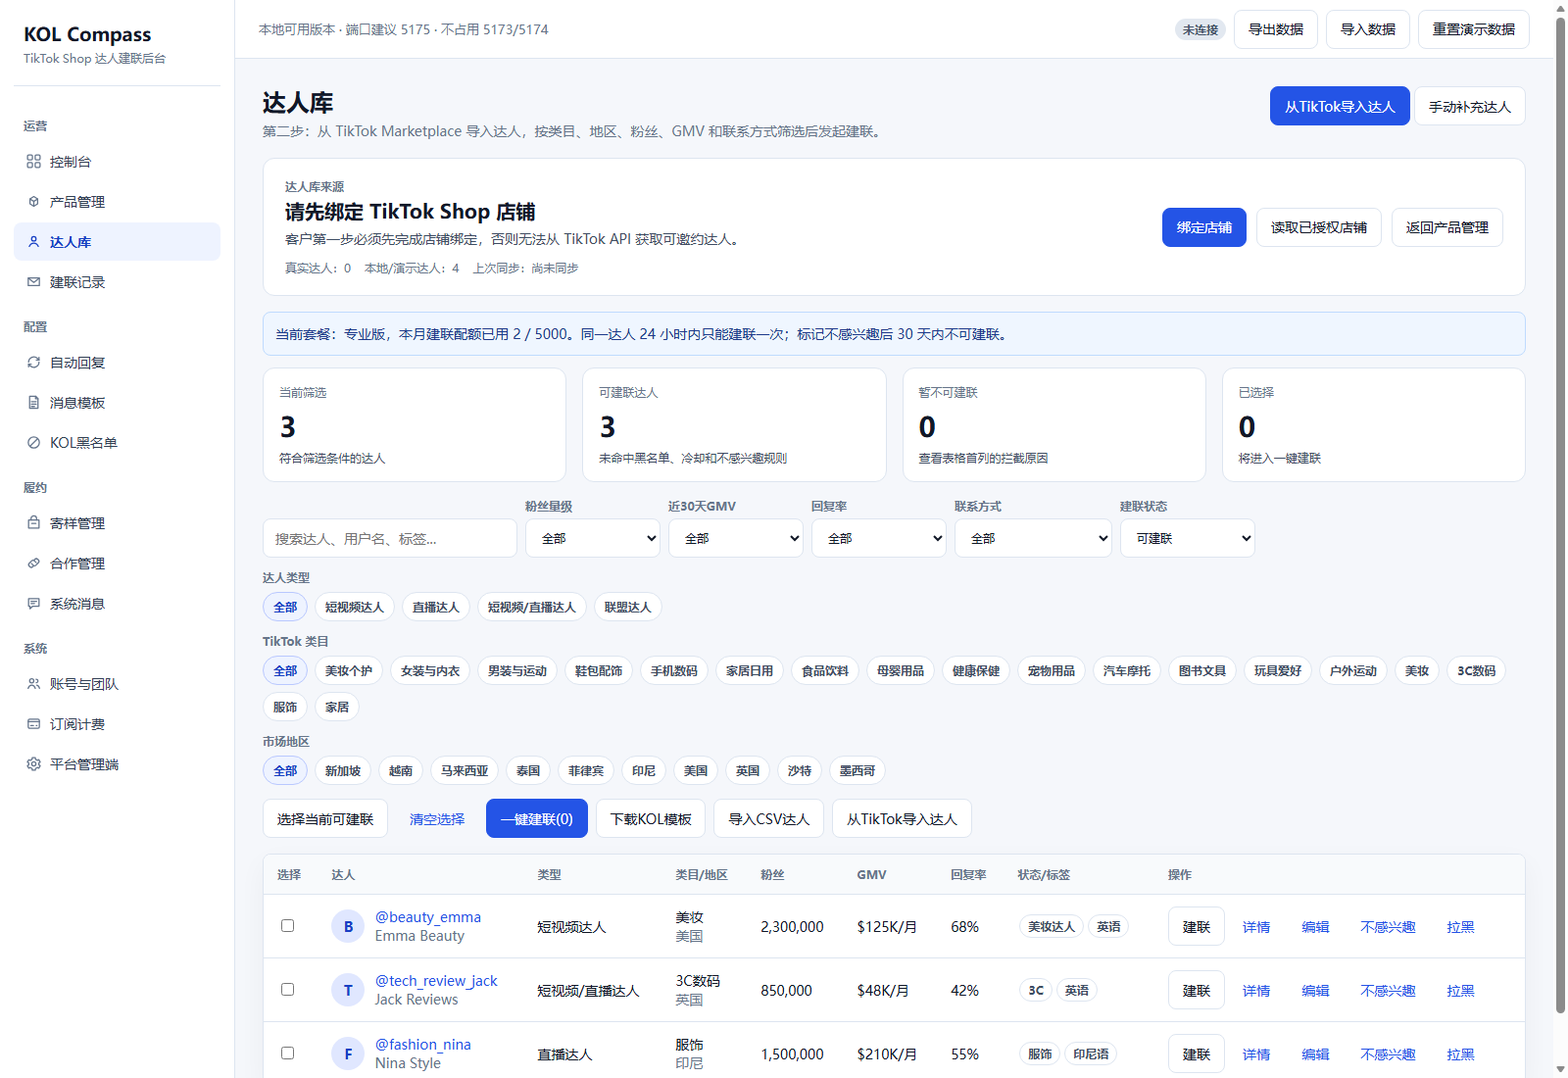
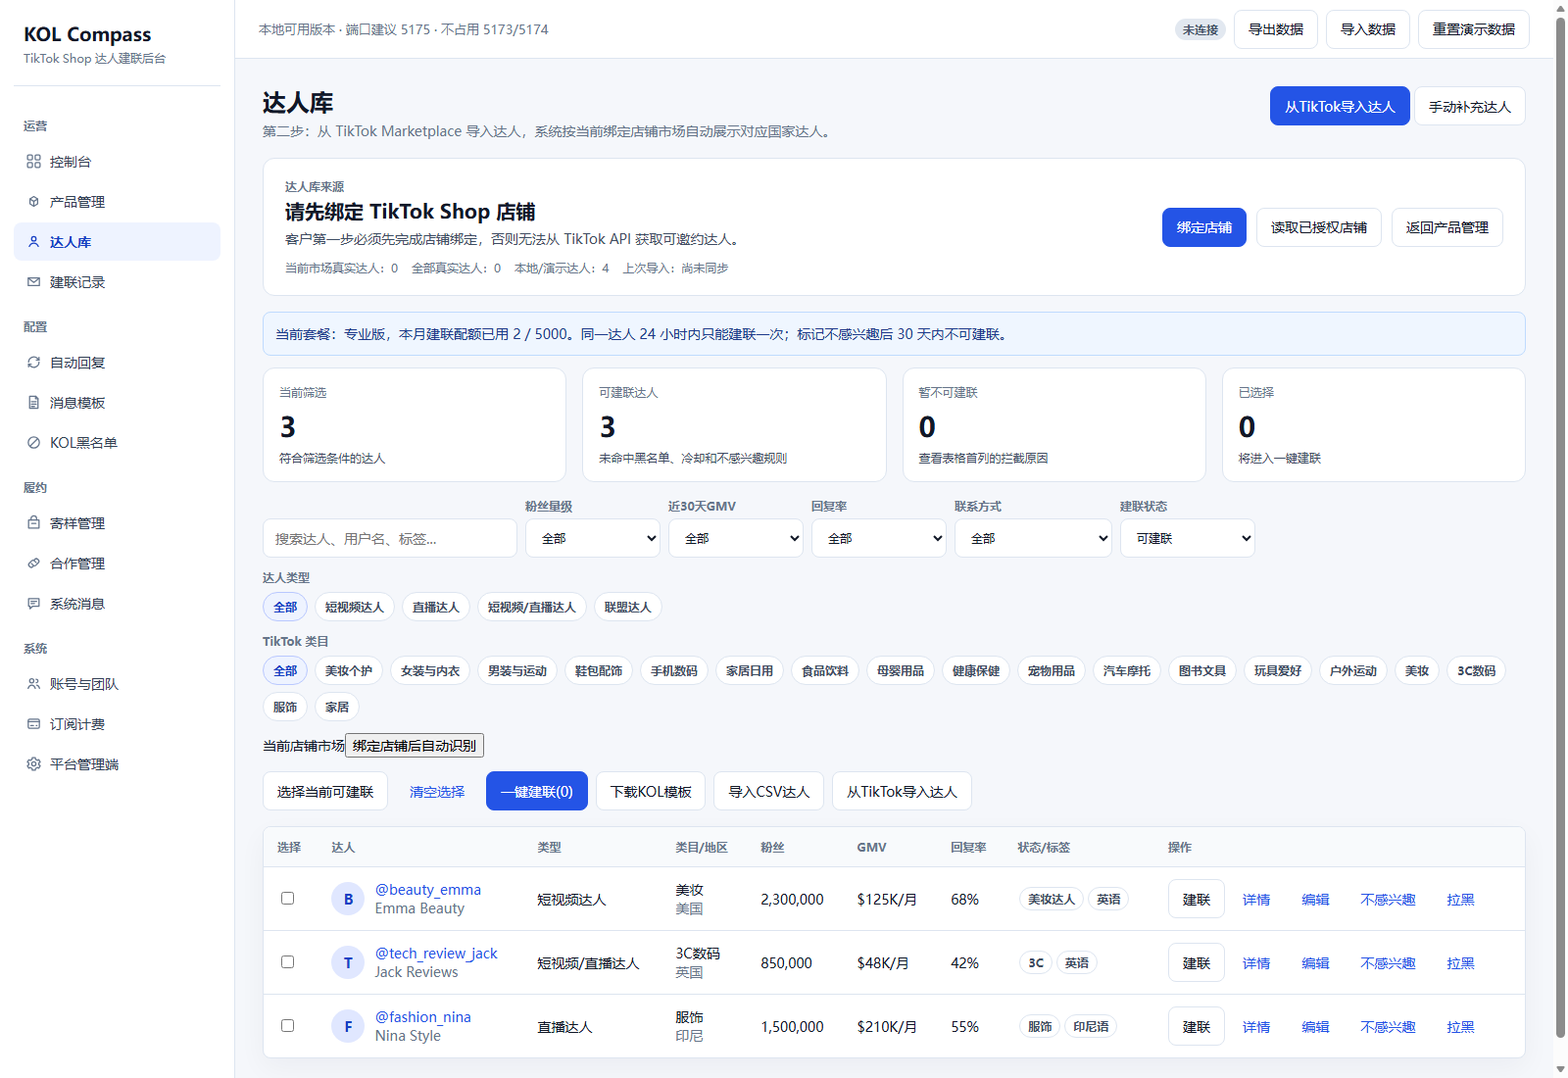
Import creators across authorized shop markets

diff --git a/app.js b/app.js
@@ -31,6 +31,29 @@ const outputStatuses = ["全部", "待产出", "已发视频", "已直播", "视
 const creatorTypeOptions = ["短视频达人", "直播达人", "短视频/直播达人", "联盟达人"];
 const tiktokCategoryOptions = ["美妆个护", "女装与内衣", "男装与运动", "鞋包配饰", "手机数码", "家居日用", "食品饮料", "母婴用品", "健康保健", "宠物用品", "汽车摩托", "图书文具", "玩具爱好", "户外运动"];
 const marketOptions = ["新加坡", "越南", "马来西亚", "泰国", "菲律宾", "印尼", "美国", "英国", "沙特", "墨西哥"];
+const marketRegionLabels = {
+  SG: "新加坡",
+  SGP: "新加坡",
+  VN: "越南",
+  VNM: "越南",
+  MY: "马来西亚",
+  MYS: "马来西亚",
+  TH: "泰国",
+  THA: "泰国",
+  PH: "菲律宾",
+  PHL: "菲律宾",
+  ID: "印尼",
+  IDN: "印尼",
+  US: "美国",
+  USA: "美国",
+  UK: "英国",
+  GB: "英国",
+  GBR: "英国",
+  SA: "沙特",
+  SAU: "沙特",
+  MX: "墨西哥",
+  MEX: "墨西哥",
+};
 const followerTierOptions = ["<10K", "10K-100K", "100K-1M", ">1M"];
 const replyRateOptions = [">=60%", "40%-60%", "<40%"];
 const gmvRangeOptions = ["<$10K", "$10K-$50K", "$50K-$100K", "$100K-$500K", ">$500K"];
@@ -745,22 +768,23 @@ function renderProducts() {
 function renderKolPool() {
   const shops = state.settings.tiktokShops || [];
   const selectedShop = shops.find((shop) => shopCipher(shop) === state.settings.selectedTikTokShopCipher) || shops[0];
+  const currentMarket = selectedShop ? selectedShopMarket(selectedShop) : "";
   const realCreators = state.creators.filter((c) => c.sourceId);
-  const localCreators = state.creators.filter((c) => !c.sourceId);
+  const marketCreators = currentMarket ? state.creators.filter((c) => normalizeMarketRegion(c.region) === currentMarket || c.sourceShopCipher === shopCipher(selectedShop)) : state.creators;
+  const realMarketCreators = marketCreators.filter((c) => c.sourceId);
+  const localCreators = marketCreators.filter((c) => !c.sourceId);
   const categories = fixedOptions(tiktokCategoryOptions, state.creators.map((c) => c.category));
-  const regions = fixedOptions(marketOptions, state.creators.map((c) => c.region));
-  const rows = state.creators.filter((c) => {
+  const rows = marketCreators.filter((c) => {
     const kw = state.filters.kolSearch.trim().toLowerCase();
     const typeOk = multiFilterOk(state.filters.kolTypes, c.type);
     const categoryOk = multiFilterOk(state.filters.kolCategories, c.category);
-    const regionOk = multiFilterOk(state.filters.kolRegions, c.region);
     const followersOk = creatorFollowerTierOk(c.followers, state.filters.kolFollowers);
     const replyRateOk = creatorReplyRateOk(c.replyRate, state.filters.kolReplyRate);
     const gmvOk = creatorGmvRangeOk(c.gmv, state.filters.kolGmv);
     const contactOk = creatorContactOk(c, state.filters.kolContact);
     const kwOk = !kw || [c.username, c.nickname, c.category, c.region, c.tags.join(",")].join(" ").toLowerCase().includes(kw);
     const interestOk = state.filters.kolInterest === "显示不感兴趣" ? c.status !== "黑名单" : c.status !== "黑名单" && !isNotInterestedBlocked(c);
-    return typeOk && categoryOk && regionOk && followersOk && replyRateOk && gmvOk && contactOk && kwOk && interestOk;
+    return typeOk && categoryOk && followersOk && replyRateOk && gmvOk && contactOk && kwOk && interestOk;
   });
   const availableRows = rows.filter((c) => !creatorOutreachBlockReason(c));
   const blockedRows = rows.filter((c) => creatorOutreachBlockReason(c));
@@ -770,16 +794,17 @@ function renderKolPool() {
   }).length;
   const visibleAvailableIds = `[${availableRows.map((c) => c.id).join(",")}]`;
   return `
-    ${pageHead("达人库", "第二步：从 TikTok Marketplace 导入达人，按类目、地区、粉丝、GMV 和联系方式筛选后发起建联。", `<button class="btn primary" onclick="syncCreators()">从TikTok导入达人</button> <button class="btn" onclick="openCreatorModal()">手动补充达人</button>`)}
+    ${pageHead("达人库", "第二步：从 TikTok Marketplace 导入达人，系统按当前绑定店铺市场自动展示对应国家达人。", `<button class="btn primary" onclick="syncCreators()">从TikTok导入达人</button> <button class="btn" onclick="openCreatorModal()">手动补充达人</button>`)}
     <section class="store-panel">
       <div>
         <div class="section-kicker">达人库来源</div>
         <h3>${escapeHtml(selectedShop ? shopLabel(selectedShop) : "请先绑定 TikTok Shop 店铺")}</h3>
-        <p>${selectedShop ? "当前达人库会从该店铺授权下的 TikTok Affiliate Marketplace 搜索达人；导入后的真实达人会进入下方筛选表。" : "客户第一步必须先完成店铺绑定，否则无法从 TikTok API 获取可邀约达人。"}</p>
+        <p>${selectedShop ? `当前店铺市场：${escapeHtml(currentMarket || "未识别")}。系统只展示该市场达人，不再让客户手动选择国家；导入时会按已授权店铺逐个市场写入达人库。` : "客户第一步必须先完成店铺绑定，否则无法从 TikTok API 获取可邀约达人。"}</p>
         <div class="store-meta">
-          <span>真实达人：${realCreators.length}</span>
+          <span>当前市场真实达人：${realMarketCreators.length}</span>
+          <span>全部真实达人：${realCreators.length}</span>
           <span>本地/演示达人：${localCreators.length}</span>
-          <span>上次同步：${escapeHtml(state.settings.lastCreatorSync || "尚未同步")}</span>
+          <span>上次导入：${escapeHtml(state.settings.lastCreatorSync || "尚未导入")}</span>
         </div>
       </div>
       <div class="store-actions">
@@ -798,7 +823,7 @@ function renderKolPool() {
         <button class="btn" onclick="setPage('products')">返回产品管理</button>
       </div>
     </section>
-    ${selectedShop && !realCreators.length ? `<div class="notice" style="margin-bottom:12px">当前还没有从 TikTok API 导入的真实达人；下方如果看到达人，是本地演示/CSV 数据。请点击“从TikTok导入达人”，成功后才能开始按真实达人筛选和建联。</div>` : ""}
+    ${selectedShop && !realMarketCreators.length ? `<div class="notice" style="margin-bottom:12px">当前店铺市场还没有从 TikTok API 导入的真实达人；下方如果看到达人，是该市场本地演示/CSV 数据。请点击“从TikTok导入达人”，系统会按已授权店铺市场批量导入。</div>` : ""}
     <div class="notice" style="margin-bottom:12px">当前套餐：${escapeHtml(state.settings.planName)}，本月建联配额已用 ${quotaLabel()}。同一达人 24 小时内只能建联一次；标记不感兴趣后 30 天内不可建联。</div>
     <div class="grid grid-4" style="margin-bottom:16px">
       ${stat("当前筛选", rows.length, "符合筛选条件的达人")}
@@ -823,7 +848,7 @@ function renderKolPool() {
         </div>
         ${multiFilterChips("kolTypes", "达人类型", fixedOptions(creatorTypeOptions, state.creators.map((c) => c.type)))}
         ${multiFilterChips("kolCategories", "TikTok 类目", categories)}
-        ${multiFilterChips("kolRegions", "市场地区", regions)}
+        <div class="filter-chip-row"><span>当前店铺市场</span><button class="chip active" type="button">${escapeHtml(currentMarket || "绑定店铺后自动识别")}</button></div>
       </div>
       <div class="filters">
         <button class="btn" onclick="selectVisibleCreators(${visibleAvailableIds})">选择当前可建联</button>
@@ -1645,9 +1670,20 @@ function shopRegion(shop) {
   return shop?.region || shop?.market || shop?.country || shop?.shop_region || "-";
 }
 
+function normalizeMarketRegion(value) {
+  const raw = String(value || "").trim();
+  if (!raw || raw === "-") return "";
+  const upper = raw.toUpperCase();
+  return marketRegionLabels[upper] || raw;
+}
+
+function selectedShopMarket(shop) {
+  return normalizeMarketRegion(shopRegion(shop));
+}
+
 function shopLabel(shop) {
   const name = shop?.shop_name || shop?.name || shop?.seller_name || shop?.shop_id || "未命名店铺";
-  const region = shopRegion(shop);
+  const region = selectedShopMarket(shop) || shopRegion(shop);
   return region && region !== "-" ? `${name} · ${region}` : String(name);
 }
 
@@ -1810,31 +1846,112 @@ async function syncProducts(options = {}) {
   }
 }
 
+function creatorNextPageToken(data) {
+  const upstream = data?.upstream || {};
+  const payload = upstream.data || upstream;
+  return payload.next_page_token
+    || payload.nextPageToken
+    || payload.next_page
+    || payload.pagination?.next_page_token
+    || payload.pagination?.nextPageToken
+    || "";
+}
+
+function creatorImportKeys(row) {
+  const keys = [];
+  const shopKey = row.sourceShopCipher || "";
+  const identity = row.sourceId || row.username || "";
+  if (shopKey && identity) keys.push(`${shopKey}:${identity}`);
+  if (!shopKey && row.sourceId) keys.push(row.sourceId);
+  if (!shopKey && row.username) keys.push(row.username);
+  return keys;
+}
+
+function creatorLegacyImportKeys(row) {
+  return [row.sourceId, row.username].filter(Boolean);
+}
+
+function upsertImportedCreators(creators, shop) {
+  const shopKey = shopCipher(shop);
+  const shopName = shopLabel(shop);
+  const shopMarket = selectedShopMarket(shop);
+  const existing = new Map();
+  for (const row of state.creators) {
+    for (const key of creatorImportKeys(row)) existing.set(key, row);
+  }
+  let changed = 0;
+  for (const creator of creators || []) {
+    const region = normalizeMarketRegion(creator.region) || shopMarket || creator.region;
+    const payload = {
+      ...creator,
+      region,
+      sourceShopCipher: shopKey,
+      sourceShopName: shopName,
+      sourceShopRegion: shopMarket,
+    };
+    const keys = creatorImportKeys(payload);
+    const current = keys.map((key) => existing.get(key)).find(Boolean)
+      || creatorLegacyImportKeys(payload).map((key) => existing.get(key)).find((row) => row && !row.sourceShopCipher);
+    if (current) {
+      Object.assign(current, payload);
+    } else {
+      const next = { ...payload, id: nextId(state.creators) };
+      state.creators.push(next);
+      for (const key of keys) existing.set(key, next);
+    }
+    changed += 1;
+  }
+  return changed;
+}
+
+function wait(ms) {
+  return new Promise((resolve) => setTimeout(resolve, ms));
+}
+
 async function syncCreators() {
   state.settings.lastCreatorSync = nowText();
   try {
     const shops = state.settings.tiktokShops || [];
     const selected = shops.find((shop) => shopCipher(shop) === state.settings.selectedTikTokShopCipher) || shops[0];
-    if (selected) selectTikTokShop(shopCipher(selected));
-    const data = await apiRequest("/api/tiktok/creators/search", {
-      method: "POST",
-      body: JSON.stringify({
-        shop_cipher: state.settings.tiktokShopCipher || "",
-        keyword: state.filters.kolSearch || "",
-        page_size: 12,
-      }),
-    });
-    if (Array.isArray(data.creators) && data.creators.length) {
-      const existingBySource = new Map(state.creators.map((creator) => [creator.sourceId || creator.username, creator]));
-      for (const creator of data.creators) {
-        const key = creator.sourceId || creator.username;
-        if (existingBySource.has(key)) Object.assign(existingBySource.get(key), creator);
-        else state.creators.push({ ...creator, id: nextId(state.creators) });
+    const targetShops = shops.length ? shops : selected ? [selected] : [];
+    if (!targetShops.length) throw new Error("请先绑定 TikTok Shop 店铺，再从 TikTok 导入达人。");
+
+    let importedCount = 0;
+    let successMarkets = 0;
+    const failures = [];
+    for (const shop of targetShops) {
+      const cipher = shopCipher(shop);
+      if (!cipher) continue;
+      let pageToken = "";
+      let page = 0;
+      let marketImported = 0;
+      try {
+        do {
+          const data = await apiRequest("/api/tiktok/creators/search", {
+            method: "POST",
+            body: JSON.stringify({
+              shop_cipher: cipher,
+              keyword: state.filters.kolSearch || "",
+              page_size: 20,
+              page_token: pageToken,
+            }),
+          });
+          const creators = Array.isArray(data.creators) ? data.creators : [];
+          marketImported += upsertImportedCreators(creators, shop);
+          pageToken = creatorNextPageToken(data);
+          page += 1;
+          if (pageToken) await wait(700);
+        } while (pageToken && page < 50);
+        importedCount += marketImported;
+        successMarkets += 1;
+      } catch (error) {
+        failures.push(`${shopLabel(shop)}：${error.message || "导入失败"}`);
       }
     }
+    if (!successMarkets) throw new Error(failures.join("；") || "TikTok 达人导入失败。");
     state.settings.apiStatus = "达人已导入";
-    addSyncLog("达人导入", "成功", `已从 TikTok Shop API 导入 ${data.creators?.length || 0} 个达人。`);
-    pushMessage("达人导入", `TikTok Shop 达人导入完成：${data.creators?.length || 0} 个。`);
+    addSyncLog("达人导入", failures.length ? "部分成功" : "成功", `已按 ${successMarkets} 个授权店铺市场从 TikTok 导入/更新 ${importedCount} 个达人。${failures.length ? `失败：${failures.join("；")}` : ""}`);
+    pushMessage("达人导入", `TikTok Shop 达人导入完成：${importedCount} 个；覆盖 ${successMarkets} 个授权店铺市场。`);
     saveState();
     render();
   } catch (error) {

diff --git a/smoke-test.js b/smoke-test.js
@@ -84,7 +84,8 @@ async function main() {
   assert("blacklist search and audit trail supported", ["blacklistSearch", "blacklistReason", "blacklistedAt", "blacklistRestoredAt"].every((name) => app.includes(name)) && app.includes("搜索达人、类目、地区、原因"));
   assert("creator fixed fields use fixed options", ["selectField(\"type\"", "selectField(\"category\"", "selectField(\"region\"", "creatorTypeOptions", "tiktokCategoryOptions", "marketOptions"].every((text) => app.includes(text)));
   assert("creator contact fields editable", app.includes('field("email", "Email"') && app.includes('field("whatsapp", "WhatsApp"') && app.includes('email: get("email")'));
-  assert("KOL pool fixed multi-select filters supported", ["kolTypes", "kolCategories", "kolRegions", "kolFollowers", "kolReplyRate", "kolGmv", "kolContact", "multiFilterChips", "creatorGmvRangeOk", "creatorContactOk"].every((name) => app.includes(name)));
+  assert("creator library auto-filters by bound shop market", ["selectedShopMarket", "normalizeMarketRegion", "当前店铺市场", "sourceShopCipher"].every((name) => app.includes(name)) && !app.includes('multiFilterChips("kolRegions"'));
+  assert("KOL pool fixed filters supported without manual country selection", ["kolTypes", "kolCategories", "kolFollowers", "kolReplyRate", "kolGmv", "kolContact", "multiFilterChips", "creatorGmvRangeOk", "creatorContactOk"].every((name) => app.includes(name)));
   assert("KOL pool batch outreach supported", ["toggleCreatorSelection", "openOutreachModal", "saveOutreach", "renderTemplate"].every((name) => app.includes(`function ${name}`)) && app.includes("一键建联"));
   assert("KOL pool selection summary supported", ["当前筛选", "可建联达人", "暂不可建联", "已选择", "选择当前可建联", "清空选择"].every((text) => app.includes(text)) && ["selectVisibleCreators", "clearBulkSelection"].every((name) => app.includes(`function ${name}`)));
   assert("outreach quota and safety rules enforced", ["planQuotas", "quotaRemaining", "creatorOutreachBlockReason", "markNotInterested", "clearNotInterested", "selectPlan"].every((name) => app.includes(name)) && app.includes("24小时内已建联") && app.includes("不感兴趣至"));
@@ -104,6 +105,7 @@ async function main() {
   assert("TikTok API backend exists", ["generateSign", "/api/tiktok/auth-url", "/api/tiktok/callback", "/api/tiktok/shops", "/api/tiktok/products", "x-tts-access-token", "/authorization/202309/shops", "/product/202309/products/search", "/product/202309/products/${productId}"].every((text) => server.includes(text)));
   assert("TikTok product sync normalizes image and status fields", ["imageUrl", "main_images", "normalizeProductStatus", "rawStatus", "stock"].every((text) => server.includes(text)) && ["productThumb", "可选", "不可选"].every((text) => app.includes(text)));
   assert("TikTok creator search API wired", ["/api/tiktok/creators/search", "/affiliate_seller/202508/marketplace_creators/search", "normalizeCreators"].every((text) => server.includes(text)) && ["apiRequest(\"/api/tiktok/creators/search\"", "达人导入失败"].every((text) => app.includes(text)));
+  assert("TikTok creator import paginates authorized store markets", ["targetShops", "creatorNextPageToken", "page_token", "page_size: 20", "覆盖 ${successMarkets} 个授权店铺市场"].every((text) => app.includes(text)));
   assert("TikTok creator sync maps real marketplace fields", ["creator_open_id", "selection_region", "avatarUrl", "formatMoney", "normalizeCreatorRegion", "avg_ec_video_view_count"].every((text) => server.includes(text)) && ["c.avatarUrl", ".avatar img"].every((text) => app.includes(text) || read("app.css").includes(text)));
   assert("TikTok API backend keeps secrets out of frontend", server.includes("TIKTOK_SHOP_APP_SECRET") && read(".gitignore").includes(".env.local") && read(".gitignore").includes(".data/"));
   assert("TikTok Shop binding UI calls backend", ["API_BASE", "startTikTokAuth", "checkTikTokBackend", "checkTikTokShops", "apiRequest(\"/api/tiktok/products\""].every((text) => app.includes(text)));

diff --git a/docs/CLAUDE_CONTINUE.md b/docs/CLAUDE_CONTINUE.md
@@ -38,7 +38,7 @@ TikTok Shop API 后端使用：
 - `start-full.bat`
 - `smoke-test.js`
 
-最近一次连续推进检查：2026-06-22 18:03 CST，当前分支已连接 GitHub 远端；TikTok Shop sandbox OAuth 已跑通，已读取授权店铺 `SANDBOX_VN7651055422359521044` 并同步 1 个商品。产品同步已补充商品详情读取，实测可返回真实 `imageUrl`，`rawStatus=ACTIVATE` 会在前端归一显示为 `可选`。客户主流程已明确为“第一步绑定店铺/同步商品 -> 第二步进入达人库筛选达人”。产品管理页保留“商品名 / 商品ID”两个检索条件，并新增“下一步：筛选达人”和“进入达人库”入口；原 `KOL池` 导航和页面标题已改为 `达人库`。达人库顶部显示当前店铺来源、真实达人数量、本地/演示达人数量、上次同步和 `从TikTok导入达人` 主按钮；CSV 入口单独命名为 `导入CSV达人`。筛选项包含达人类型、TikTok 类目、市场地区多选 chip，以及粉丝量级、近30天GMV、回复率、联系方式、建联状态固定单选。达人搜索接口 `/api/tiktok/creators/search` 已接入并确认恢复响应；本地后端已修正字段映射：`creator_open_id` -> `sourceId`，`selection_region` -> 中文市场，`gmv.amount/currency` -> 可读 GMV，`avatar.url` -> 头像。侧边栏导航已从字符占位图标改为统一的内联 SVG 图标组件，并已在冒烟测试中加入防回退断言。注意达人搜索接口连续测试仍可能返回 429，下次验证不要高频请求。
+最近一次连续推进检查：2026-06-22 18:16 CST，当前分支已连接 GitHub 远端；TikTok Shop sandbox OAuth 已跑通，已读取授权店铺 `SANDBOX_VN7651055422359521044` 并同步 1 个商品。产品同步已补充商品详情读取，实测可返回真实 `imageUrl`，`rawStatus=ACTIVATE` 会在前端归一显示为 `可选`。客户主流程已明确为“第一步绑定店铺/同步商品 -> 第二步进入达人库筛选达人”。产品管理页保留“商品名 / 商品ID”两个检索条件，并新增“下一步：筛选达人”和“进入达人库”入口；原 `KOL池` 导航和页面标题已改为 `达人库`。达人库顶部显示当前店铺来源、当前市场真实达人数量、全部真实达人数量、本地/演示达人数量、上次导入和 `从TikTok导入达人` 主按钮；CSV 入口单独命名为 `导入CSV达人`。达人导入会按所有已授权店铺逐个 `shop_cipher` 分页调用 `/api/tiktok/creators/search`，并把 `sourceShopCipher/sourceShopRegion` 写入达人记录。达人库展示不再让客户手选国家，系统按当前绑定店铺市场自动过滤；筛选项包含达人类型、TikTok 类目、粉丝量级、近30天GMV、回复率、联系方式、建联状态固定选项。达人搜索接口已接入并确认恢复响应；本地后端已修正字段映射：`creator_open_id` -> `sourceId`，`selection_region` -> 中文市场，`gmv.amount/currency` -> 可读 GMV，`avatar.url` -> 头像。侧边栏导航已从字符占位图标改为统一的内联 SVG 图标组件，并已在冒烟测试中加入防回退断言。注意达人搜索接口连续测试仍可能返回 429，下次验证不要高频请求。
 
 启动：
 

diff --git a/docs/PROJECT_MEMORY.md b/docs/PROJECT_MEMORY.md
@@ -1,6 +1,6 @@
 # KOL Compass 项目记忆
 
-更新时间：2026-06-22 18:03 CST
+更新时间：2026-06-22 18:16 CST
 
 ## 当前工作目录
 
@@ -59,6 +59,7 @@ node smoke-test.js
 - 2026-06-22 17:40 CST：TikTok Affiliate Seller 达人搜索接口恢复响应，本地接口曾成功返回真实达人。已修正 `normalizeCreators`：`creator_open_id` 映射到 `sourceId`，`selection_region=VN` 显示为越南，`gmv.amount/currency` 显示为可读 GMV，`avatar.url` 显示为达人头像，均播/直播 UV 写入标签。连续请求该接口仍可能触发 429，后续测试应低频执行。
 - 2026-06-22 17:50 CST：侧边栏导航已从字符占位图标改为统一的内联 SVG 图标组件，包含控制台、产品、KOL、建联、自动回复、模板、黑名单、寄样、合作、消息、团队、订阅和平台管理；冒烟测试新增断言，禁止回退到符号图标。
 - 2026-06-22 18:03 CST：客户主流程已明确为“第一步绑定店铺/同步商品 -> 第二步进入达人库筛选达人”。原 `KOL池` 导航和页面标题改为 `达人库`；产品管理页新增“下一步：筛选达人”和“进入达人库”入口；达人库顶部新增店铺来源、真实达人数量、本地/演示达人数量、上次同步和 `从TikTok导入达人` 主按钮。真实达人来源仍是 TikTok Affiliate Seller Marketplace Creator Search，不伪造数据；CSV 入口单独命名为 `导入CSV达人`。
+- 2026-06-22 18:16 CST：达人库导入逻辑已改为按所有已授权 TikTok Shop 店铺市场分页导入，系统会逐个 `shop_cipher` 调用 `/api/tiktok/creators/search`，使用 `page_token` 继续翻页并写入 `sourceShopCipher/sourceShopRegion`。达人库展示不再让客户手选国家，改为按当前绑定店铺市场自动过滤；店铺切到哪个国家，只展示该国家达人。
 - `node --check app.js` 通过。
 - `node smoke-test.js` 全部通过。
 - 控制台截图 `smoke-dashboard.png` 已重新生成并目视检查通过，时间范围筛选、负责人筛选、指标下钻、内容状态分布和负责人概览可见。
